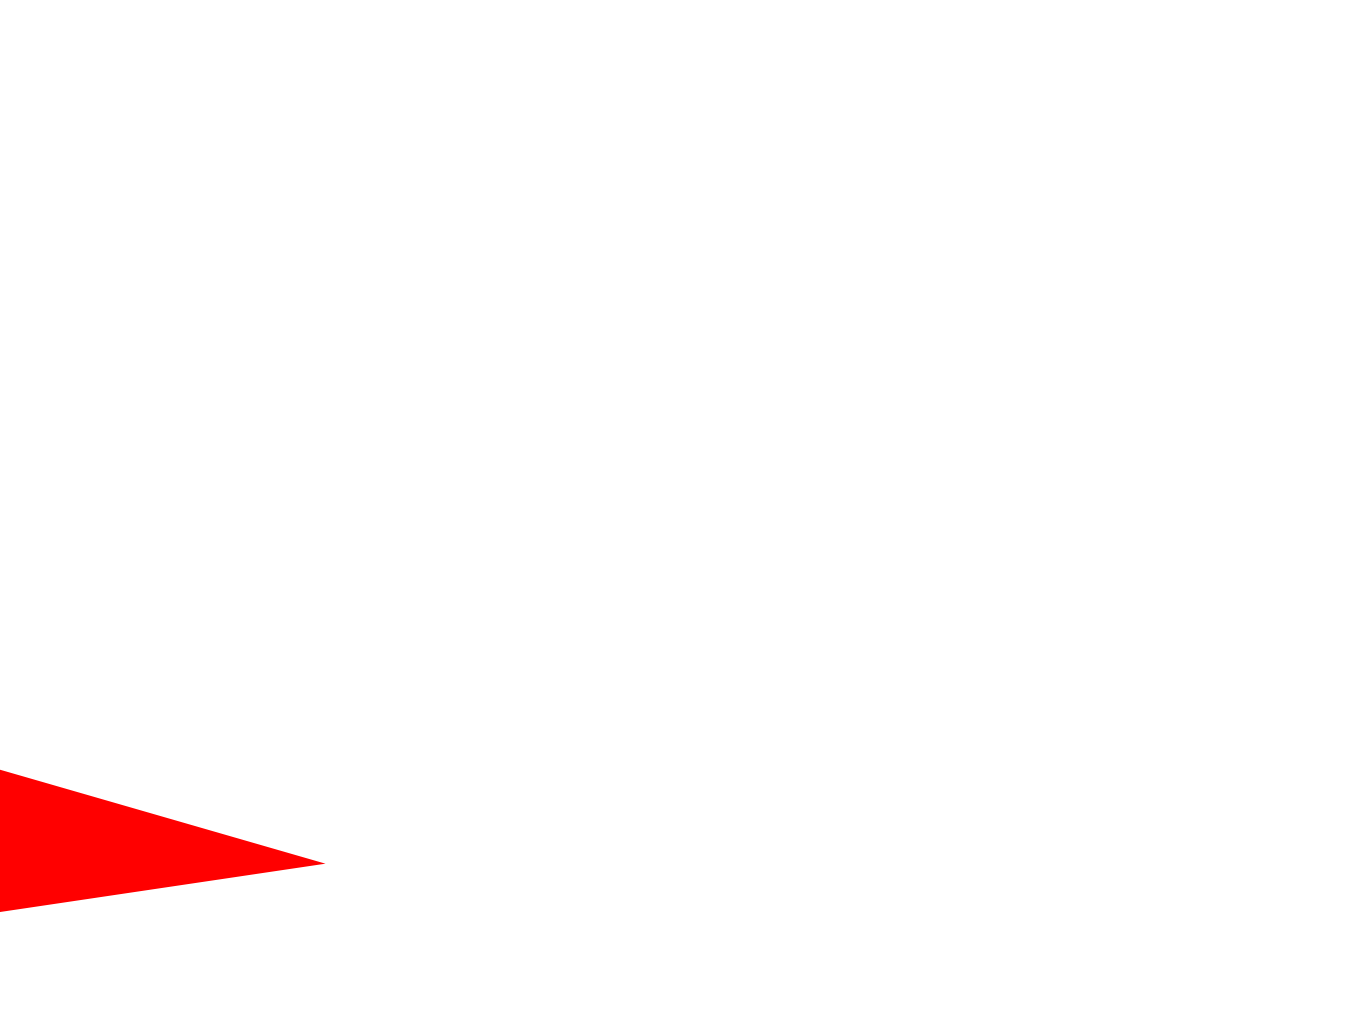
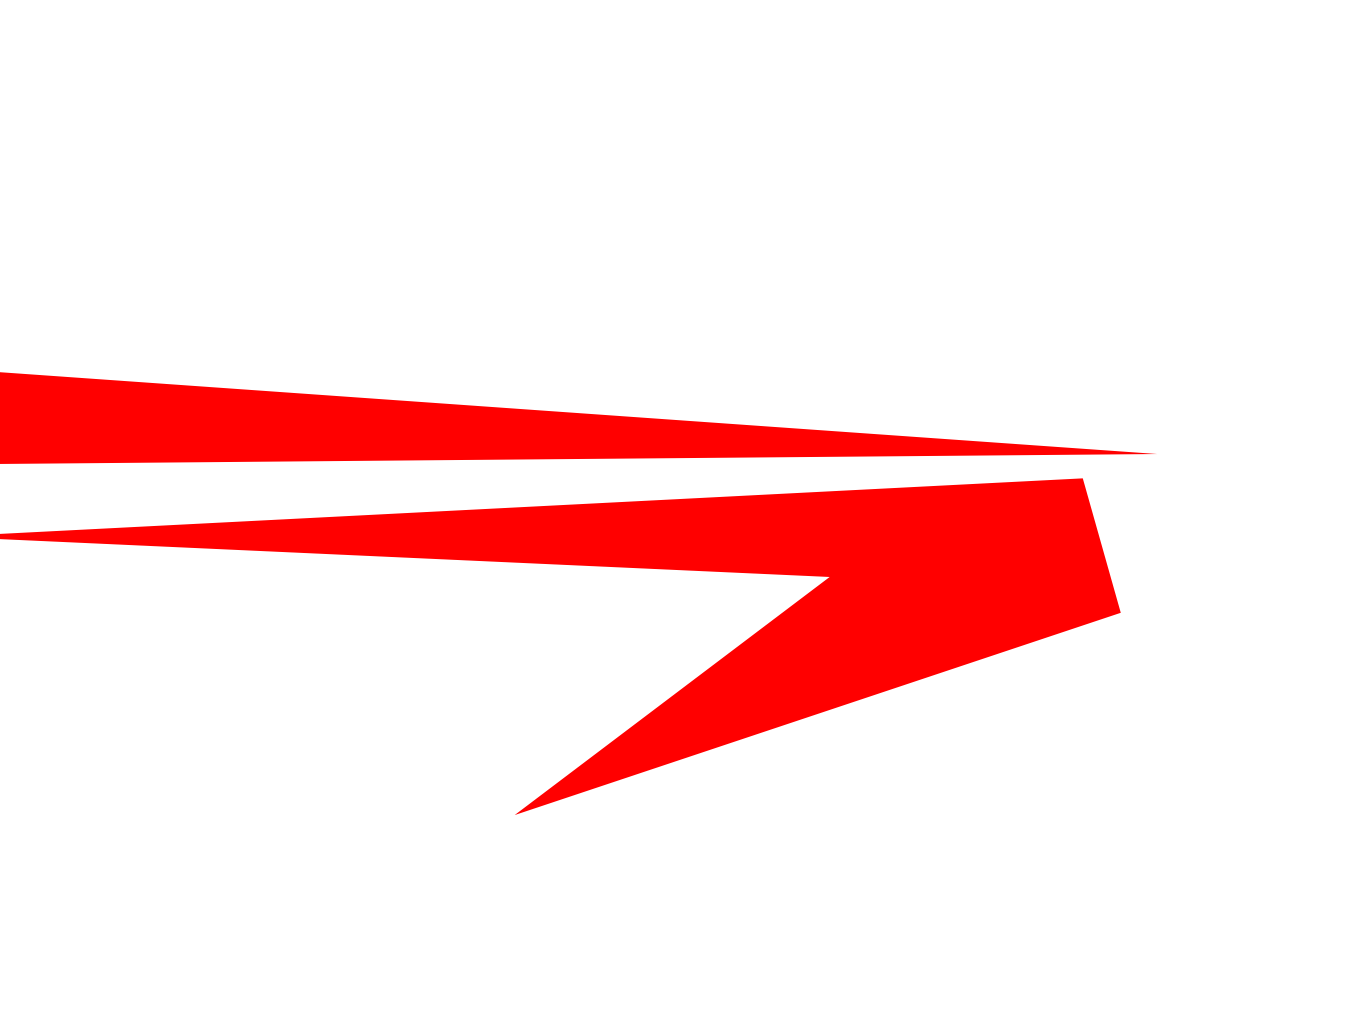
Update
Добавлена возможность отрисовки нескольких полигонов

Changed region(s): [[0.0, 0.3438, 0.8302, 0.7812], [0.0, 0.75, 0.246, 0.9062], [0.369, 0.7812, 0.3997, 0.8125]]

diff --git a/Karta/main.go b/Karta/main.go
@@ -42,10 +42,12 @@ func main() {
 	dc.SetHexColor("fff")
 
 	dc.InvertY()
+	dc.Scale(8, 8)
 	dc.MoveTo(fc1.Features[0].Geometry.Polygon[0][0][0], fc1.Features[0].Geometry.Polygon[0][0][1])
-	for j := 1; j < len(fc1.Features[0].Geometry.Polygon[0]); j++ {
-		dc.Scale(1.5, 1.5)
-		dc.LineTo(fc1.Features[0].Geometry.Polygon[0][j][0], fc1.Features[0].Geometry.Polygon[0][j][1])
+	for i := 0; i < len(fc1.Features); i++ {
+		for j := 1; j < len(fc1.Features[i].Geometry.Polygon[0]); j++ {
+			dc.LineTo(fc1.Features[i].Geometry.Polygon[0][j][0], fc1.Features[i].Geometry.Polygon[0][j][1])
+		}
 	}
 
 	dc.SetHexColor("f00")
